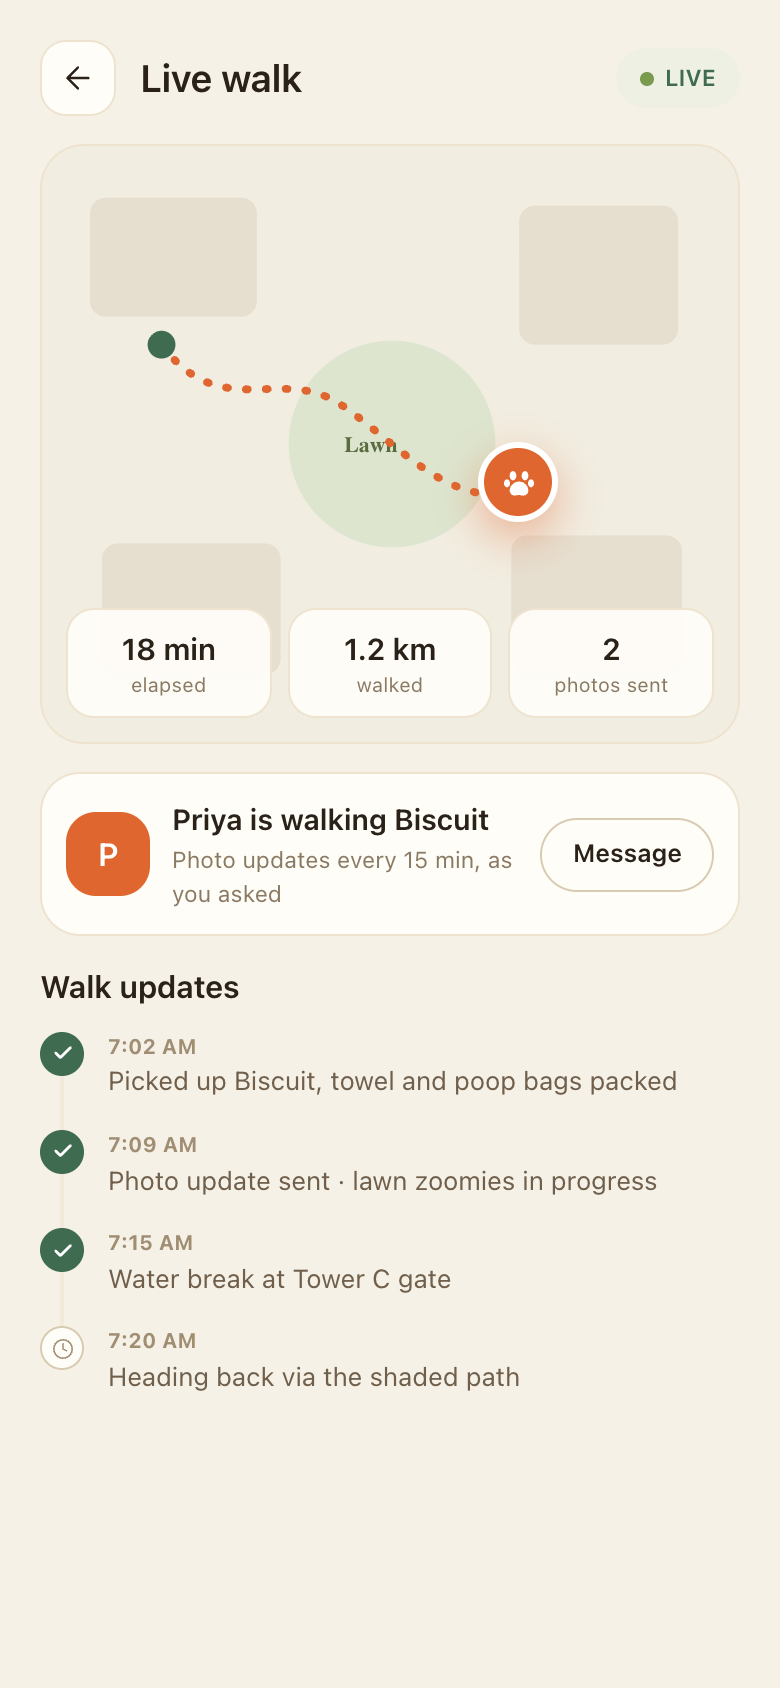
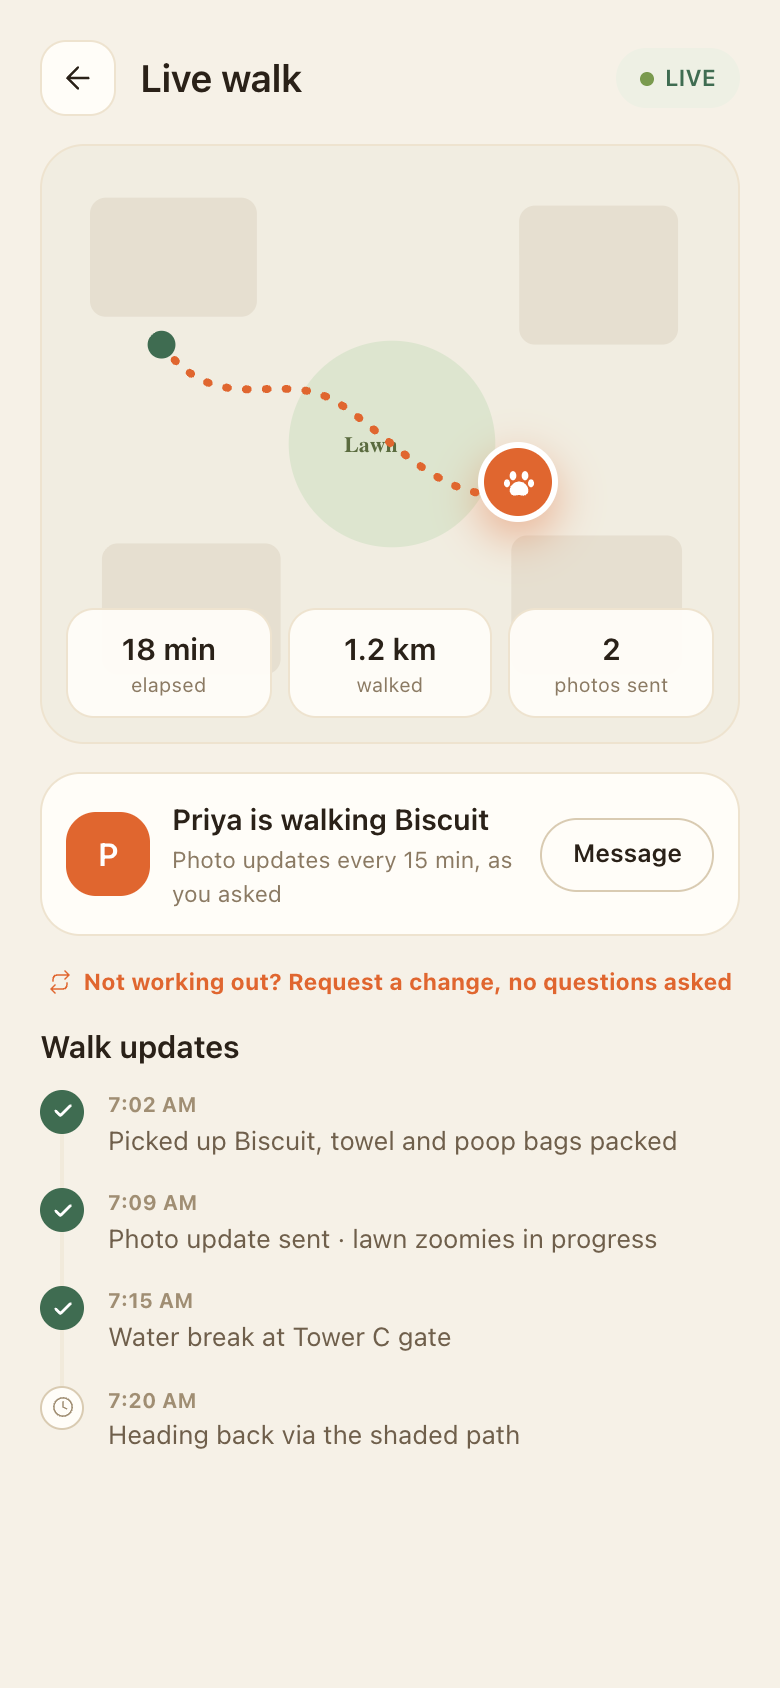
Add request-a-change volunteer switch to the app and tour
- New Switch screen: reason chips, three-step what-happens-next,
  no-questions-asked note, raise-ticket CTA; current volunteer stays
  until the replacement arrives so care never pauses
- Live-walk screen gets a request-a-change entry link
- Tour page: ninth section showcasing the switch flow

diff --git a/src/mobile/screens.tsx b/src/mobile/screens.tsx
@@ -53,6 +53,7 @@ const paths = {
   check: 'M20 6 9 17l-5-5',
   star: 'M12 2l3.09 6.26L22 9.27l-5 4.87 1.18 6.88L12 17.77l-6.18 3.25L7 14.14 2 9.27l6.91-1.01z',
   cash: 'M2 7h20v10H2zM12 14.5a2.5 2.5 0 1 0 0-5 2.5 2.5 0 0 0 0 5z',
+  swap: 'M17 1l4 4-4 4M21 5H9a4 4 0 0 0-4 4v2M7 23l-4-4 4-4M3 19h12a4 4 0 0 0 4-4v-2',
 };
 function Paw({ size = 18, color = '#fff' }: { size?: number; color?: string }) {
   return (
@@ -574,6 +575,11 @@ function Track() {
           <span style={{ fontFamily: F, fontWeight: 600, fontSize: 12.5, border: `1.2px solid ${C.btnBorder}`, borderRadius: 99, padding: '8px 15px' }}>Message</span>
         </div>
 
+        <div style={{ display: 'flex', alignItems: 'center', justifyContent: 'center', gap: 6, marginBottom: 12 }}>
+          <Ic d={paths.swap} size={12} color={C.orange} />
+          <span style={{ fontSize: 11.5, color: C.orange, fontWeight: 700 }}>Not working out? Request a change, no questions asked</span>
+        </div>
+
         {/* timeline */}
         <div style={{ fontFamily: F, fontWeight: 600, fontSize: 15.5, marginBottom: 10 }}>Walk updates</div>
         <div style={{ display: 'flex', flexDirection: 'column', gap: 0 }}>
@@ -596,6 +602,69 @@ function Track() {
               </div>
             </div>
           ))}
+        </div>
+      </div>
+    </Phone>
+  );
+}
+
+/* ------------------------------ 9. SWITCH ------------------------------ */
+
+function Switch() {
+  return (
+    <Phone nav="bookings">
+      <Header title="Request a change" />
+      <div style={{ padding: '0 20px 20px', overflow: 'hidden' }}>
+        {/* current volunteer */}
+        <div style={{ ...card, display: 'flex', alignItems: 'center', gap: 11, padding: 13, marginBottom: 16 }}>
+          <span style={{ width: 44, height: 44, borderRadius: 15, background: C.orange, display: 'grid', placeItems: 'center', color: '#fff', fontFamily: F, fontWeight: 600, fontSize: 16 }}>P</span>
+          <div style={{ flex: 1 }}>
+            <div style={{ fontFamily: F, fontWeight: 600, fontSize: 14.5 }}>Priya S. · walking Biscuit</div>
+            <div style={{ fontSize: 11.5, color: C.muted }}>Your current volunteer for this booking</div>
+          </div>
+          <span style={{ fontSize: 10.5, fontWeight: 800, background: C.greenPale, color: C.green, borderRadius: 99, padding: '4px 11px' }}>ACTIVE</span>
+        </div>
+
+        {/* reason */}
+        <span style={label}>What is not working?</span>
+        <div style={{ display: 'flex', flexWrap: 'wrap', gap: 8, marginBottom: 16 }}>
+          {[['Late or missed visits', true], ['Instructions not followed', false], ['My pet seems uneasy', false], ['Something else', false]].map(([t, sel]) => (
+            <span key={t as string} style={{ fontFamily: F, fontWeight: 600, fontSize: 12.5, borderRadius: 99, padding: '9px 15px', background: sel ? C.orange : C.card, color: sel ? '#fff' : C.ink, border: `1.2px solid ${sel ? C.orange : C.btnBorder}` }}>{t}</span>
+          ))}
+        </div>
+
+        {/* what happens next */}
+        <div style={{ ...card, padding: 14, marginBottom: 12 }}>
+          <div style={{ fontFamily: F, fontWeight: 600, fontSize: 13.5, marginBottom: 10 }}>What happens next</div>
+          {[
+            'Your ticket reaches our team instantly',
+            'The next best verified volunteer is assigned right away',
+            'Your current volunteer continues until the new one arrives, so care never pauses',
+          ].map((t, i) => (
+            <div key={t} style={{ display: 'flex', gap: 10, alignItems: 'flex-start', marginBottom: i < 2 ? 9 : 0 }}>
+              <span style={{ width: 20, height: 20, borderRadius: 99, background: C.peach, color: C.orangeDark, display: 'grid', placeItems: 'center', fontFamily: F, fontWeight: 600, fontSize: 11, flexShrink: 0 }}>{i + 1}</span>
+              <span style={{ fontSize: 12.5, color: C.sub, lineHeight: 1.5 }}>{t}</span>
+            </div>
+          ))}
+        </div>
+
+        {/* no awkwardness */}
+        <div style={{ ...card, background: C.greenPale, borderColor: '#dfe4cf', padding: 13, marginBottom: 16, display: 'flex', gap: 10, alignItems: 'flex-start' }}>
+          <span style={{ width: 34, height: 34, borderRadius: 12, background: C.green, display: 'grid', placeItems: 'center', flexShrink: 0 }}>
+            <Ic d={paths.shield} size={16} color="#fff" />
+          </span>
+          <div style={{ fontSize: 11.5, color: C.green, lineHeight: 1.55 }}>
+            <span style={{ fontFamily: F, fontWeight: 600 }}>No questions, no awkwardness.</span> Volunteers
+            stay professional and will not ask why. If anyone ever does, point them to our team and
+            we will have that conversation for you.
+          </div>
+        </div>
+
+        <div style={{ background: C.orange, color: '#fff', fontFamily: F, fontWeight: 600, fontSize: 15.5, textAlign: 'center', borderRadius: 18, padding: '15px 0', boxShadow: '0 12px 26px rgba(224,102,47,.35)' }}>
+          Raise ticket and switch
+        </div>
+        <div style={{ textAlign: 'center', fontSize: 11, color: C.muted2, marginTop: 9 }}>
+          We start arranging your replacement the moment you tap.
         </div>
       </div>
     </Phone>
@@ -664,4 +733,5 @@ export const MOBILE_SCREENS: Record<string, () => ReactNode> = {
   bookings: Bookings,
   payment: Payment,
   track: Track,
+  switch: Switch,
 };

diff --git a/src/app/components/TourPage.tsx b/src/app/components/TourPage.tsx
@@ -168,6 +168,21 @@ const SECTIONS: Section[] = [
     shot: '/shots/m-track.png',
     alt: 'Live walk tracking with route map, stats and update timeline',
   },
+  {
+    id: 'switch',
+    eyebrow: 'NOT WORKING OUT? SWITCH',
+    Icon: ShieldCheck,
+    accent: '#3f6c51',
+    title: 'Request a change, no questions asked.',
+    body: 'If a volunteer is not delivering what you asked for, raise a ticket right from the app and we assign the next best verified volunteer immediately. Your current volunteer continues until the new one arrives, so your pet\u2019s care never pauses. And it stays drama-free: volunteers will not ask why, and if anyone ever does, you point them to our team and we handle that conversation.',
+    points: [
+      'Raise a ticket in two taps, straight from the booking',
+      'Replacement assigned immediately, care never pauses',
+      'No questions, no awkwardness: our team talks to the volunteer, not you',
+    ],
+    shot: '/shots/m-switch.png',
+    alt: 'Request a change screen with reasons, replacement steps and raise ticket button',
+  },
 ];
 
 /** Fade-and-rise on scroll, once, honouring reduced-motion. */
